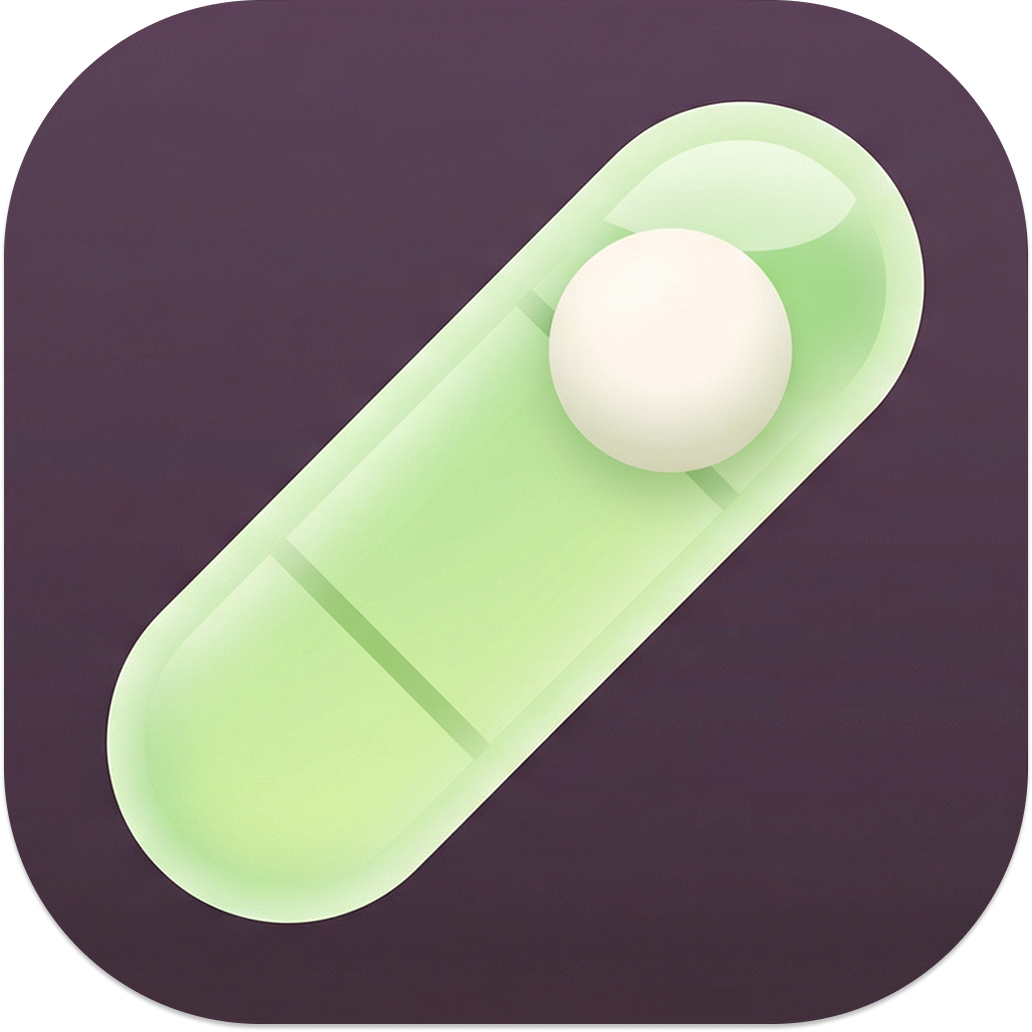
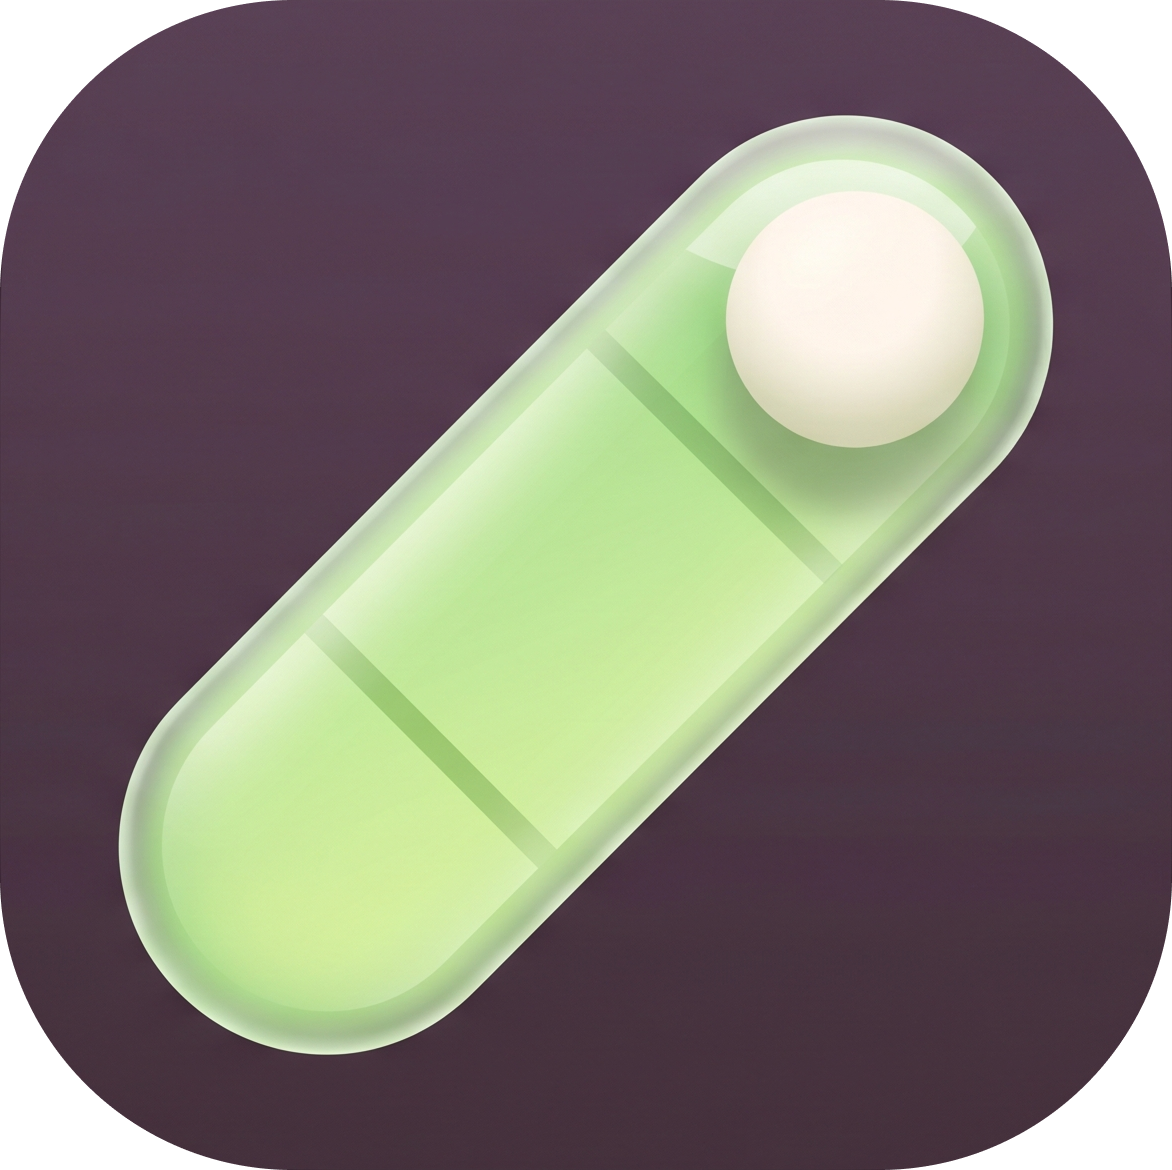
Spirit level momentum visualisation on home screen
Replaces the circular progress ring with an animated spirit level
that mirrors the app icon's visual language — glossy Tea Green
pill with a creamy bubble responding to the momentum score.

SpiritLevelView behaviour by score tier:
- 0-25 (Chaos): bubble jitters ±80% of travel every 0.18s with
  a loose spring. Liquid is desaturated with a Muted Grape overlay.
- 26-50 (Unsteady): ±50% every 0.45s, mild spring, clearing up
- 51-75 (Improving): ±18% every 1.1s, gentle movement
- 76-90 (Steady): ±6% every 2.2s, barely moves
- 91-100 (Flow State): bubble locks centre, timer stops, Pastel
  Pink glow pulses around the tube

Visual composition (matching the app icon):
- Base capsule with top-down Tea Green gradient
- Inner liquid fill with multi-stop gradient (light top, darker
  bottom) + clarity overlay tied to score
- Top-edge gloss highlight (white overlay, fades mid-tube)
- Two thin centre markers matching the icon's glass etching
- Bubble: radial gradient cream sphere with upper-left highlight,
  shadow cast below, subtle rim border
- Strokeborder rim with gradient for glass edge

Tube is 60pt tall, spans screen width. Bubble is 44pt. Score number
rendered large above (56pt ExtraBold Cream), MOMENTUM label below.
Numeric content transition on score changes.

Animation: withAnimation spring + repeating Timer. Timer invalidated
on disappear and when entering Flow State (90+) to avoid waste.

diff --git a/Level/Views/Home/SpiritLevelView.swift b/Level/Views/Home/SpiritLevelView.swift
@@ -1,0 +1,317 @@
+import SwiftUI
+
+struct SpiritLevelView: View {
+  let score: Int
+
+  @State private var bubbleOffset: CGFloat = 0
+  @State private var timer: Timer?
+  @State private var glowIntensity: Double = 0
+
+  private var tubeHeight: CGFloat { 60 }
+  private var bubbleDiameter: CGFloat { 44 }
+
+  private enum Tier {
+    case chaos, unsteady, improving, steady, flow
+
+    static func from(_ score: Int) -> Tier {
+      switch score {
+      case ..<26: return .chaos
+      case ..<51: return .unsteady
+      case ..<76: return .improving
+      case ..<91: return .steady
+      default: return .flow
+      }
+    }
+
+    var maxDrift: CGFloat {
+      switch self {
+      case .chaos: return 0.8
+      case .unsteady: return 0.5
+      case .improving: return 0.18
+      case .steady: return 0.06
+      case .flow: return 0
+      }
+    }
+
+    var tickInterval: TimeInterval {
+      switch self {
+      case .chaos: return 0.18
+      case .unsteady: return 0.45
+      case .improving: return 1.1
+      case .steady: return 2.2
+      case .flow: return 0
+      }
+    }
+
+    var springResponse: Double {
+      switch self {
+      case .chaos: return 0.28
+      case .unsteady: return 0.55
+      case .improving: return 1.0
+      case .steady: return 1.6
+      case .flow: return 2.0
+      }
+    }
+
+    var springDamping: Double {
+      switch self {
+      case .chaos: return 0.55
+      case .unsteady: return 0.75
+      case .improving: return 0.9
+      case .steady: return 0.95
+      case .flow: return 1.0
+      }
+    }
+
+    var liquidClarity: Double {
+      switch self {
+      case .chaos: return 0.55
+      case .unsteady: return 0.75
+      case .improving: return 0.9
+      case .steady: return 0.97
+      case .flow: return 1.0
+      }
+    }
+
+    var isFlow: Bool { self == .flow }
+  }
+
+  private var tier: Tier { Tier.from(score) }
+
+  var body: some View {
+    GeometryReader { geo in
+      let width = geo.size.width
+      let maxOffset = (width / 2) - (bubbleDiameter / 2) - 10
+
+      ZStack {
+        if tier.isFlow {
+          Capsule()
+            .fill(Color.pastelPink)
+            .blur(radius: 28)
+            .opacity(0.4 + glowIntensity * 0.4)
+            .frame(width: width + 80, height: tubeHeight + 80)
+        }
+
+        tubeBase
+          .frame(width: width, height: tubeHeight)
+
+        liquidFill
+          .frame(width: width - 4, height: tubeHeight - 4)
+
+        tubeGloss
+          .frame(width: width - 4, height: tubeHeight - 4)
+
+        centerMarkers
+          .frame(width: width - 40, height: tubeHeight - 20)
+
+        bubble
+          .offset(x: bubbleOffset * maxOffset)
+
+        tubeRim
+          .frame(width: width, height: tubeHeight)
+      }
+      .frame(width: width, height: tubeHeight)
+    }
+    .frame(height: tubeHeight)
+    .onAppear(perform: startAnimation)
+    .onDisappear {
+      timer?.invalidate()
+      timer = nil
+    }
+    .onChange(of: score) { _, _ in
+      restartAnimation()
+    }
+  }
+
+  private var tubeBase: some View {
+    Capsule()
+      .fill(
+        LinearGradient(
+          colors: [
+            Color.teaGreen.opacity(0.35),
+            Color.teaGreen.opacity(0.55)
+          ],
+          startPoint: .top,
+          endPoint: .bottom
+        )
+      )
+  }
+
+  private var liquidFill: some View {
+    let clarity = tier.liquidClarity
+    return Capsule()
+      .fill(
+        LinearGradient(
+          stops: [
+            .init(color: Color.teaGreen.opacity(0.6 + 0.35 * clarity), location: 0.0),
+            .init(color: Color.teaGreen.opacity(0.85 + 0.1 * clarity), location: 0.35),
+            .init(color: Color.darkGreen.opacity(0.25 + 0.15 * clarity), location: 1.0)
+          ],
+          startPoint: .top,
+          endPoint: .bottom
+        )
+      )
+      .overlay(
+        Capsule()
+          .fill(
+            LinearGradient(
+              colors: [
+                Color.mutedGrape.opacity((1 - clarity) * 0.25),
+                Color.clear
+              ],
+              startPoint: .top,
+              endPoint: .bottom
+            )
+          )
+      )
+  }
+
+  private var tubeGloss: some View {
+    Capsule()
+      .fill(
+        LinearGradient(
+          stops: [
+            .init(color: Color.white.opacity(0.45), location: 0.0),
+            .init(color: Color.white.opacity(0.15), location: 0.2),
+            .init(color: Color.white.opacity(0.0), location: 0.5),
+            .init(color: Color.white.opacity(0.0), location: 1.0)
+          ],
+          startPoint: .top,
+          endPoint: .bottom
+        )
+      )
+      .mask(
+        Capsule()
+          .fill(Color.white)
+      )
+  }
+
+  private var tubeRim: some View {
+    Capsule()
+      .strokeBorder(
+        LinearGradient(
+          colors: [
+            Color.cream.opacity(0.3),
+            Color.darkGreen.opacity(0.35)
+          ],
+          startPoint: .top,
+          endPoint: .bottom
+        ),
+        lineWidth: 1.5
+      )
+  }
+
+  private var centerMarkers: some View {
+    HStack {
+      Spacer()
+      Rectangle()
+        .fill(Color.darkGreen.opacity(0.18))
+        .frame(width: 1)
+      Spacer().frame(width: 24)
+      Rectangle()
+        .fill(Color.darkGreen.opacity(0.18))
+        .frame(width: 1)
+      Spacer()
+    }
+  }
+
+  private var bubble: some View {
+    ZStack {
+      Circle()
+        .fill(Color.deepGrape.opacity(0.25))
+        .frame(width: bubbleDiameter, height: bubbleDiameter)
+        .offset(y: 3)
+        .blur(radius: 4)
+
+      Circle()
+        .fill(
+          RadialGradient(
+            colors: [
+              Color.cream,
+              Color.cream.opacity(0.95),
+              Color.warmGrey
+            ],
+            center: .init(x: 0.35, y: 0.3),
+            startRadius: 2,
+            endRadius: bubbleDiameter
+          )
+        )
+        .frame(width: bubbleDiameter, height: bubbleDiameter)
+
+      Circle()
+        .fill(
+          RadialGradient(
+            colors: [Color.white.opacity(0.9), Color.white.opacity(0.0)],
+            center: .init(x: 0.35, y: 0.3),
+            startRadius: 0,
+            endRadius: bubbleDiameter * 0.35
+          )
+        )
+        .frame(width: bubbleDiameter, height: bubbleDiameter)
+
+      Circle()
+        .strokeBorder(Color.warmGrey.opacity(0.4), lineWidth: 0.5)
+        .frame(width: bubbleDiameter, height: bubbleDiameter)
+    }
+    .shadow(color: tier.isFlow ? Color.pastelPink.opacity(0.6) : .clear, radius: 18)
+  }
+
+  // MARK: - Animation
+
+  private func startAnimation() {
+    if tier.isFlow {
+      withAnimation(.easeInOut(duration: 0.8)) {
+        bubbleOffset = 0
+      }
+      withAnimation(.easeInOut(duration: 2.2).repeatForever(autoreverses: true)) {
+        glowIntensity = 1
+      }
+      return
+    }
+
+    scheduleTick()
+  }
+
+  private func restartAnimation() {
+    timer?.invalidate()
+    timer = nil
+    glowIntensity = 0
+    if tier.isFlow {
+      withAnimation(.spring(response: 1.5, dampingFraction: 0.9)) {
+        bubbleOffset = 0
+      }
+      withAnimation(.easeInOut(duration: 2.2).repeatForever(autoreverses: true)) {
+        glowIntensity = 1
+      }
+    } else {
+      scheduleTick()
+    }
+  }
+
+  private func scheduleTick() {
+    let currentTier = tier
+    timer = Timer.scheduledTimer(withTimeInterval: currentTier.tickInterval, repeats: true) { _ in
+      let newOffset = CGFloat.random(in: -currentTier.maxDrift...currentTier.maxDrift)
+      withAnimation(.spring(
+        response: currentTier.springResponse,
+        dampingFraction: currentTier.springDamping
+      )) {
+        bubbleOffset = newOffset
+      }
+    }
+  }
+}
+
+#Preview {
+  ZStack {
+    Color.vintageGrape.ignoresSafeArea()
+    VStack(spacing: 40) {
+      SpiritLevelView(score: 15)
+      SpiritLevelView(score: 45)
+      SpiritLevelView(score: 65)
+      SpiritLevelView(score: 85)
+      SpiritLevelView(score: 100)
+    }
+    .padding(.horizontal, 20)
+  }
+}

diff --git a/Level/Views/Home/HomeView.swift b/Level/Views/Home/HomeView.swift
@@ -123,28 +123,21 @@ struct HomeView: View {
   // MARK: - Progress Ring
 
   private var progressRing: some View {
-    let progress = min(Double(viewModel.momentumScore) / 100.0, 1.0)
-    return ZStack {
-      Circle()
-        .stroke(Color.warmGrey, lineWidth: 12)
+    VStack(spacing: 16) {
+      Text("\(viewModel.momentumScore)")
+        .font(LevelFont.extraBold(56))
+        .foregroundStyle(Color.cream)
+        .contentTransition(.numericText(value: Double(viewModel.momentumScore)))
+        .animation(.easeInOut(duration: 0.4), value: viewModel.momentumScore)
 
-      Circle()
-        .trim(from: 0, to: progress)
-        .stroke(Color.teaGreen, style: StrokeStyle(lineWidth: 12, lineCap: .round))
-        .rotationEffect(.degrees(-90))
-        .animation(.easeInOut(duration: 0.6), value: progress)
+      SpiritLevelView(score: viewModel.momentumScore)
 
-      VStack(spacing: 4) {
-        Text("\(viewModel.momentumScore)")
-          .font(LevelFont.extraBold(48))
-          .foregroundStyle(Color.cream)
-        Text("MOMENTUM")
-          .font(.levelLabel)
-          .tracking(1)
-          .foregroundStyle(Color.mutedGrape)
-      }
+      Text("MOMENTUM")
+        .font(.levelLabel)
+        .tracking(1)
+        .foregroundStyle(Color.mutedGrape)
     }
-    .frame(width: 200, height: 200)
+    .padding(.vertical, 8)
   }
 
   // MARK: - Week Dots
